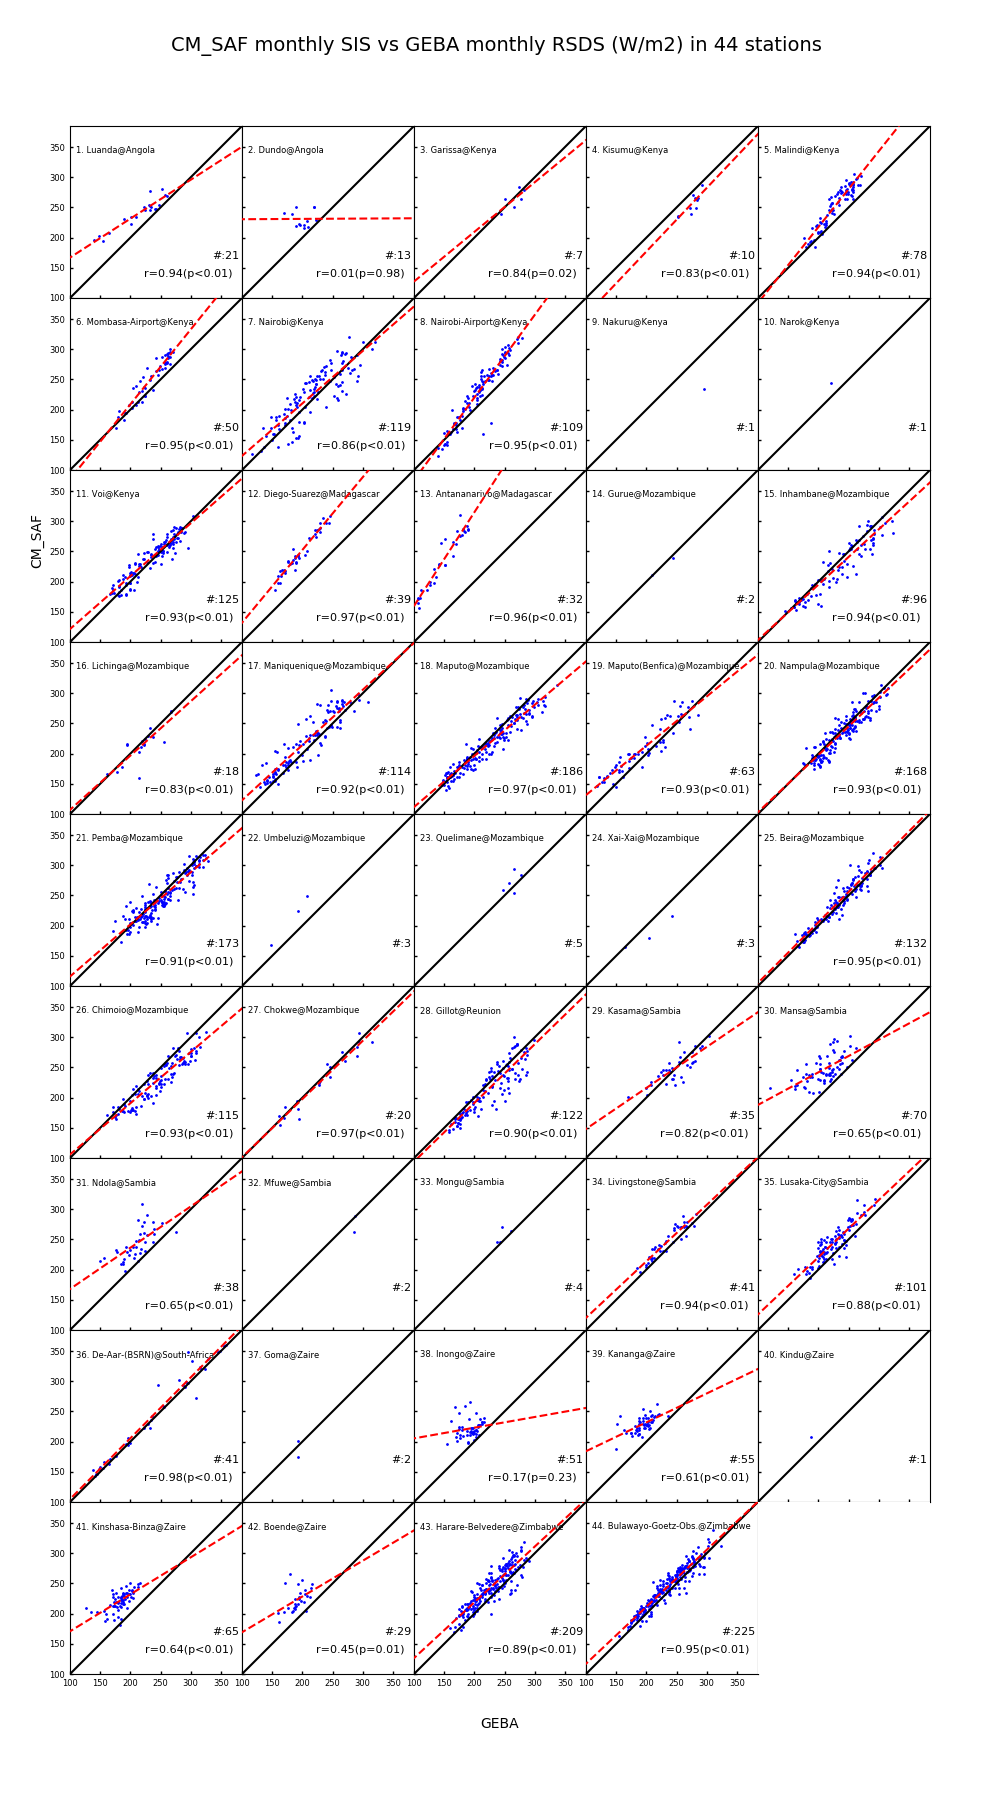
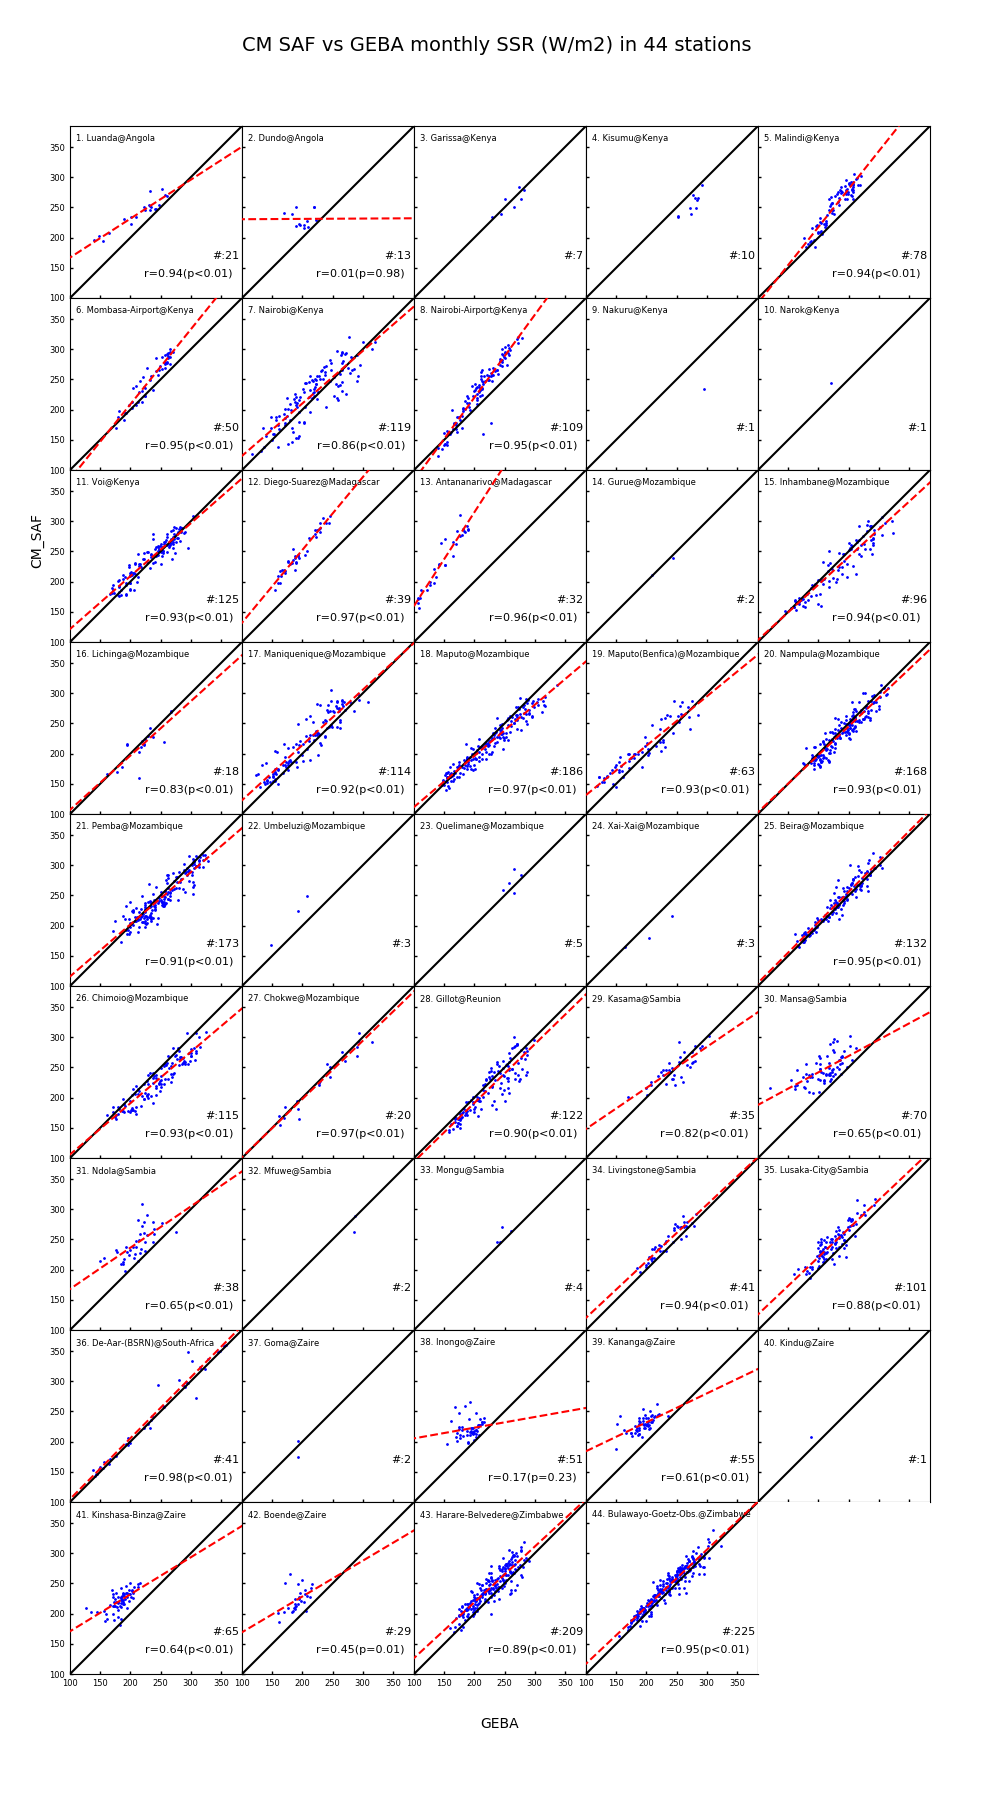
when N_month > 12, plot fitting

diff --git a/cmsaf.vld.alt.mab.py b/cmsaf.vld.alt.mab.py
@@ -1,0 +1,134 @@
+#!/usr/bin/env python
+"""
+========
+ctang, a map of geba stations in southern africa
+========
+"""
+import math
+import pdb
+from scipy import stats
+import datetime
+import pandas as pd
+import numpy as np
+import matplotlib as mpl
+from textwrap import wrap
+import matplotlib.pyplot as plt
+from mpl_toolkits.basemap import Basemap , addcyclic
+from matplotlib.dates import YearLocator,MonthLocator,DateFormatter,drange
+import sys 
+sys.path.append('/Users/ctang/Code/Python/')
+import ctang
+
+DIR='/Users/ctang/climate/GLOBALDATA/OBSDATA/CM_SAF/validation.CM_SAF.SA/'
+#=================================================== plot
+
+STATION_idfile = 'cmsaf.vld.sta.mab.csv'
+name=[ 'Sta_NO','MAB','Sta_NO','sta_ID','lat','lon','N_month','Sta_NO','sta_ID,lat','lon','N_month','sta_ID','altitude']
+#Sta_NO,MAB,Sta_NO,sta_ID,lat,lon,N_month,Sta_NO,sta_ID,lat,lon,N_month,sta_ID,altitude
+# 0    ,1,  2,    3,    , 4, , 5,   6,      7,     8,   9,  10, 11,     12,    13
+
+
+
+N_month = np.array(pd.read_csv(DIR+STATION_idfile,header=None,skiprows=1))[:,6]
+lats = np.array(pd.read_csv(DIR+STATION_idfile,header=None,skiprows=1))[:,4]
+lons = np.array(pd.read_csv(DIR+STATION_idfile,header=None,skiprows=1))[:,5]
+station_id = np.array(pd.read_csv(DIR+STATION_idfile,header=None,skiprows=1))[:,5]
+alt = np.array(pd.read_csv(DIR+STATION_idfile,header=None,skiprows=1))[:,13]
+mab = np.array(pd.read_csv(DIR+STATION_idfile,header=None,skiprows=1))[:,1]
+
+#=================================================== 
+alt_mab = np.array(np.column_stack((alt,mab,N_month)))
+alt_mab=alt_mab[np.argsort(alt_mab[:,0])]
+
+alt_mab = alt_mab[alt_mab[:,2] > 20]
+
+alt=alt_mab[:,0]
+mab1=alt_mab[:,1]
+
+#=================================================== k
+
+lat_mab = np.array(np.column_stack((lats,mab,N_month)))
+lat_mab=lat_mab[np.argsort(lat_mab[:,0])]
+
+lat_mab = lat_mab[lat_mab[:,2] > 12]
+lat_mab = lat_mab[lat_mab[:,1] < 50]
+
+lat=lat_mab[:,0]
+mab2=lat_mab[:,1]
+
+#=================================================== plotting
+fig, axes = plt.subplots(nrows=1, ncols=1, figsize=(10,8),\
+        facecolor='w', edgecolor='k') # figsize=(w,h)
+#fig.subplots_adjust(left=0.04,bottom=0.15,right=0.98,\
+        # hspace=0.15,top=0.8,wspace=0.43)
+
+plt.sca(axes) # active shis subplot 
+axx=axes
+
+axx.plot(alt,mab1,linestyle='--',marker='s',markersize=2,lw=1,zorder=2,color='blue')
+
+axx.set_xlabel("altitude")
+axx.set_ylabel("MAB (W/m2)")
+
+title1='Mean Absolute Bias and station altitude in southern Africa 1983-2005'
+fig.suptitle(title1,fontsize=12)
+
+# plot record num of each station
+# for sta in range(len(station_id)):
+    # if N_month[sta] > 5 and mab[sta] > 15:
+        # plt.annotate( format(mab[sta],'.1f'),xy=(lons[sta], lats[sta]), xytext=(4, 1),\
+            # textcoords='offset points', ha='left', va='top',color='blue',\
+            # # bbox=dict(boxstyle='round,pad=0.5', fc='yellow', alpha=0.5),\
+            # # arrowprops=dict(arrowstyle = '->', connectionstyle='arc3,rad=0')\
+            # )
+
+plt.savefig('cmsaf.vld.atl.mab.eps',format='eps')
+#===================================================  end of subplot 3
+fig1, axes = plt.subplots(nrows=1, ncols=1, figsize=(10,8),\
+        facecolor='w', edgecolor='k') # figsize=(w,h)
+#fig.subplots_adjust(left=0.04,bottom=0.15,right=0.98,\
+        # hspace=0.15,top=0.8,wspace=0.43)
+
+plt.sca(axes) # active shis subplot 
+axx=axes
+
+# linear plot:
+axx.plot(lat,mab2,linestyle='-',marker='o',markersize=10,lw=2,zorder=2,color='blue')
+
+# linear fitting
+slope, intercept, r_value, p_value, std_err = stats.linregress(lat,mab2)
+print slope,intercept,r_value,p_value,std_err
+
+yy=[t*slope+intercept for t in range(-40,10,1)]
+axx.plot(range(-40,10,1),yy,'--',color='red',zorder=10,label='fitting')
+legend = axx.legend(loc='upper left', shadow=False,prop={'size':8})
+
+if p_value < 0.01:
+    axx.text( -30,35,'r='+str(format(r_value,'.2f'))+'(p<0.01)',ha='left', fontsize=8, rotation=0)   
+else:
+    axx.text( -30,35,'r='+str(format(r_value,'.2f'))+'(p='+str(format(p_value,'.2f'))+')',ha='left', fontsize=8, rotation=0)   
+
+# hist plot:
+bin=np.linspace(-40, 0, 10)
+
+# bin=
+axx.set_xlabel("lat")
+axx.set_ylabel("MAB (W/m2)")
+
+title2='Mean Absolute Bias and station latitude in southern Africa 1983-2005'
+fig1.suptitle(title2,fontsize=12)
+# plot record num of each station
+# for sta in range(len(station_id)):
+    # if N_month[sta] > 5 and mab[sta] > 15:
+        # plt.annotate( format(mab[sta],'.1f'),xy=(lons[sta], lats[sta]), xytext=(4, 1),\
+            # textcoords='offset points', ha='left', va='top',color='blue',\
+            # # bbox=dict(boxstyle='round,pad=0.5', fc='yellow', alpha=0.5),\
+            # # arrowprops=dict(arrowstyle = '->', connectionstyle='arc3,rad=0')\
+            # )
+
+plt.savefig('cmsaf.vld.lat.mab.eps',format='eps')
+print "done"
+plt.show()
+
+quit()
+

diff --git a/cmsaf.vld.map.mab.py b/cmsaf.vld.map.mab.py
@@ -1,0 +1,91 @@
+#!/usr/bin/env python
+"""
+========
+ctang, a map of geba stations in southern africa
+========
+"""
+import math
+import pdb
+import datetime
+import pandas as pd
+import numpy as np
+import matplotlib as mpl
+from textwrap import wrap
+import matplotlib.pyplot as plt
+from mpl_toolkits.basemap import Basemap , addcyclic
+from matplotlib.dates import YearLocator,MonthLocator,DateFormatter,drange
+import sys 
+sys.path.append('/Users/ctang/Code/Python/')
+import ctang
+
+DIR='/Users/ctang/climate/GLOBALDATA/OBSDATA/CM_SAF/validation.CM_SAF.SA/'
+#=================================================== plot
+
+STATION_idfile = 'cmsaf.vld.sta.mab.csv'
+# Sta_i, mab, no, sta_id, lat, lon, n_of_month
+# 0    , 1  , 2,  3,    , 4, , 5,   6
+lats = np.array(pd.read_csv(DIR+STATION_idfile,header=None))[:,4]
+lons = np.array(pd.read_csv(DIR+STATION_idfile,header=None))[:,5]
+station_id = np.array(pd.read_csv(DIR+STATION_idfile,header=None))[:,5]
+mab = np.array(pd.read_csv(DIR+STATION_idfile,header=None))[:,1]
+N_month = np.array(pd.read_csv(DIR+STATION_idfile,header=None))[:,6]
+
+#=================================================== plotting
+fig, axes = plt.subplots(nrows=1, ncols=1, figsize=(10,8),\
+        facecolor='w', edgecolor='k') # figsize=(w,h)
+#fig.subplots_adjust(left=0.04,bottom=0.15,right=0.98,\
+        # hspace=0.15,top=0.8,wspace=0.43)
+
+plt.sca(axes) # active shis subplot 
+axx=axes
+
+vmin = 10
+vmax = 50 
+
+cmap = plt.cm.GnBu
+cmaplist = [cmap(i) for i in range(cmap.N)]
+bounds = np.linspace(vmin,vmax,9)
+norm = mpl.colors.BoundaryNorm(bounds, cmap.N)
+
+map=Basemap(projection='cyl',area_thresh=10000.,llcrnrlat=-45,urcrnrlat=1,llcrnrlon=0,urcrnrlon=60,resolution='h')
+
+map.drawcoastlines(linewidth=1)
+map.drawparallels(np.arange(-90.,91.,10.),labels=[1,0,0,0],linewidth=0.5)
+map.drawmeridians(np.arange(-180.,181.,20.),labels=[0,0,0,1],linewidth=0.5)
+map.drawmapboundary(linewidth=1)
+map.drawcountries(linewidth=1)
+
+
+
+
+for sta in range(len(station_id)):
+    if N_month[sta] > 5:
+        sc=plt.scatter(\
+            lons[sta], lats[sta], c=mab[sta],edgecolor='black',\
+            zorder=2,norm=norm,vmin=vmin,vmax=vmax,s=55, cmap=cmap)
+
+cb=plt.colorbar(sc,orientation='horizontal',shrink=0.6)
+cb.ax.tick_params(labelsize=9) 
+cb.ax.set_title("Mean Absolute Bias (W/m2)")
+
+
+
+title='Mean Absolute Bias of CM SAF vs GEBA monthly SSR in southern Africa 1983-2005'
+fig.suptitle(title,fontsize=12)
+
+# plot record num of each station
+# for sta in range(len(station_id)):
+    # if N_month[sta] > 5 and mab[sta] > 15:
+        # plt.annotate( format(mab[sta],'.1f'),xy=(lons[sta], lats[sta]), xytext=(4, 1),\
+            # textcoords='offset points', ha='left', va='top',color='blue',\
+            # # bbox=dict(boxstyle='round,pad=0.5', fc='yellow', alpha=0.5),\
+            # # arrowprops=dict(arrowstyle = '->', connectionstyle='arc3,rad=0')\
+            # )
+
+plt.savefig('mon.flg.sta.SA.8305.eps',format='eps')
+#===================================================  end of subplot 3
+print "done"
+plt.show()
+
+quit()
+

diff --git a/cmsaf.vld.sta.series.py b/cmsaf.vld.sta.series.py
@@ -188,8 +188,8 @@ def VS(x,x1,y,ax,i,title):
         ax.yaxis.grid(color='gray', linestyle='dashed',lw=0.5)
         ax.xaxis.grid(color='gray', linestyle='dashed',lw=0.5)
 
-        ax.plot(date,x,linestyle='--',marker='s',markersize=2,zorder=2,label='GEBA',color='blue')
-        ax.plot(date,y,linestyle='-',marker='o',markersize=2,zorder=2,label='CM_SAF',color='red')
+        ax.plot(date,x,linestyle='--',marker='s',markersize=2,lw=1,zorder=2,label='GEBA',color='blue')
+        ax.plot(date,y,linestyle='-',marker='o',markersize=2,lw=1,zorder=2,label='CM_SAF',color='red')
         legend = ax.legend(loc='upper left', shadow=False ,prop={'size':5})
         ax.set_xlim(datetime.datetime(1982,12,01),datetime.datetime(2005,12,31))
         plt.setp( ax.xaxis.get_majorticklabels(), rotation=90)
@@ -273,16 +273,16 @@ def plot_by_model(title):
             else:
                 ctang.empty_plot(axes[j])
 
-        plt.suptitle('CM_SAF monthly SIS vs GEBA monthly RSDS (W/m2) in 44 stations ',fontsize=14)
+        plt.suptitle('CM SAF vs GEBA monthly SSR (W/m2) in 44 stations ',fontsize=14)
 
         outfile='validation.sta.series.CM_SAF.GEBA'
         # plt.savefig(outfile+'.png')
         plt.savefig(outfile+'.eps', format='eps')
 #=================================================== save cof
-    # headers=['Sta_'+str(i+1) for i in range(len(station_id))]
-    # with open('GEBA.validation.GEBA.1970-1999.cof.csv', 'w') as fp:
-        # fp.write(','.join(headers) + '\n')
-        # np.savetxt(fp, COF, '%5.2f', ',')
+    headers=['Sta_'+str(i+1) for i in range(len(station_id))]
+    with open('cmsaf.vld.series.8305.MAB.csv','w,') as fp:
+        fp.write(','.join(headers) + '\n')
+        np.savetxt(fp, COF, '%5.2f', ',')
 #=================================================== end plot by model
 
 plot_by_model(station_name)

diff --git a/cmsaf.validation.station.py b/cmsaf.validation.station.py
@@ -175,14 +175,14 @@ def VS(x,x1,y,ax,i,title):
 
         # set title
         # ax.set_title(str(i+1)+". "+title[i],fontsize=6)
-        ax.text( 110,340,str(i+1)+". "+title[i],ha='left', fontsize=6, rotation=0)   
+        ax.text( 110,360,str(i+1)+". "+title[i],ha='left', fontsize=6, rotation=0)   
 
         # ref line:
         k=np.linspace(100,400,301)
         ax.plot(k,k,'k-',zorder=5,color='black') # identity line
 
         # linear regression:
-        if len(x) > 5:
+        if len(x) > 12:
             slope, intercept, r_value, p_value, std_err = stats.linregress(x,y)
 
             print slope,intercept,r_value,p_value,std_err
@@ -260,7 +260,7 @@ def plot_by_model(title):
             else:
                 ctang.empty_plot(axes[j])
 
-        plt.suptitle('CM_SAF monthly SIS vs GEBA monthly RSDS (W/m2) in 44 stations ',fontsize=14)
+        plt.suptitle('CM SAF vs GEBA monthly SSR (W/m2) in 44 stations ',fontsize=14)
 
         outfile='validation.CM_SAF.GEBA'
         plt.savefig(outfile+'.png')
